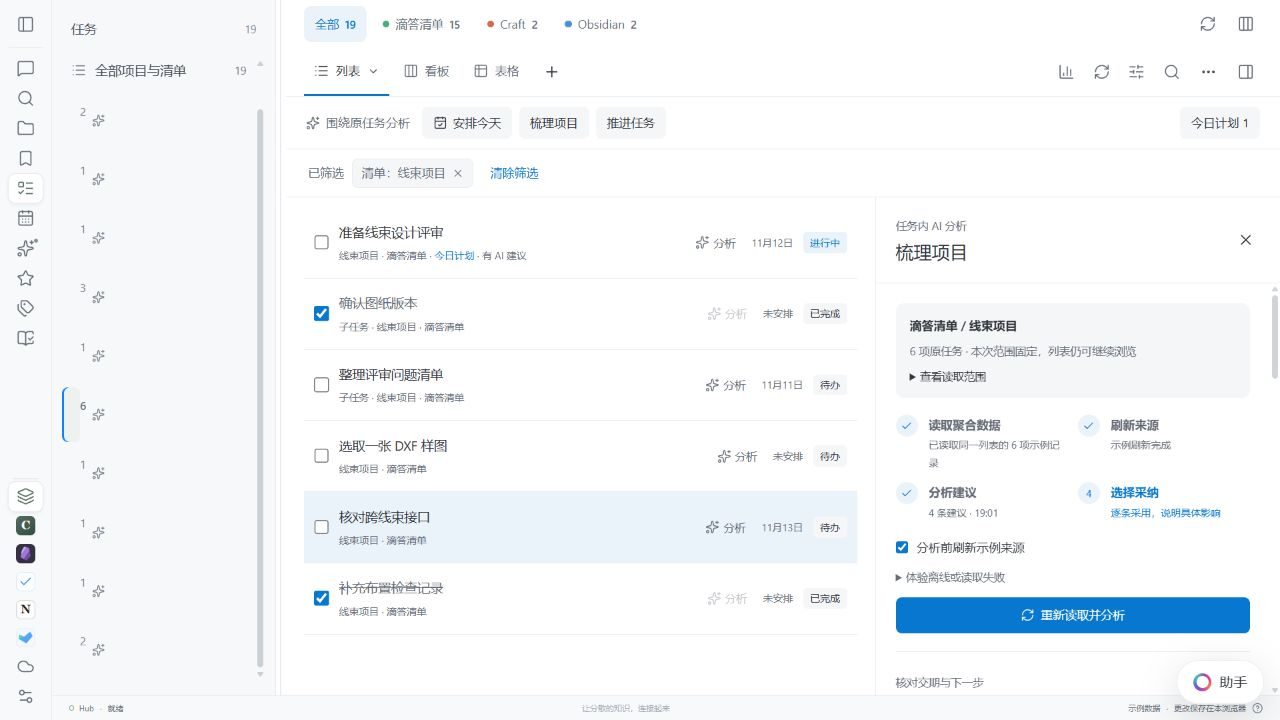
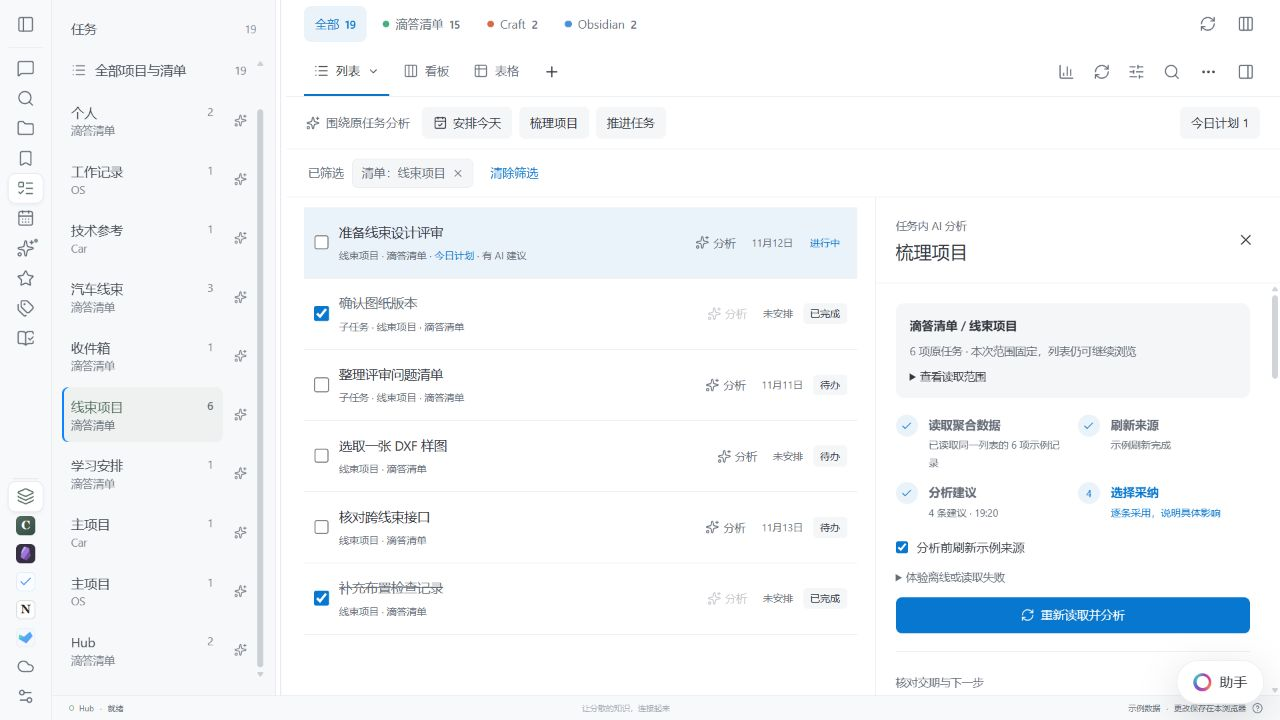
修复任务项目导航名称不可见的问题
限制分析图标按钮宽度，恢复项目名称、来源与数量的显示；同步原工作台 v94 的实际发布源码、快照与验收图。
检查结果：10 项任务分析检查通过，生产构建通过；本地 10 个项目文字和按钮均未越界，项目筛选与分析范围均为 6 条并生成 4 条建议；线上 10 个项目名称已恢复。241 个源码文件经 Git 换行规范化比对一致，差异检查通过。
仅修改站点原型，正式桌面代码与真实数据库未改动。

diff --git a/sites/hub-workspace/app/task-analysis.css b/sites/hub-workspace/app/task-analysis.css
@@ -1,4 +1,4 @@
-.ta-ai-actions{display:flex;align-items:center;gap:7px;padding:10px 20px;border-bottom:1px solid var(--line);flex-wrap:wrap;font-size:12px;flex-shrink:0}.ta-ai-actions>span{display:flex;align-items:center;gap:6px;color:var(--subtle);margin-right:5px}.ta-ai-actions>button{padding:7px 11px;border-radius:6px;background:var(--surface-2);display:flex;gap:6px;align-items:center;min-height:32px}.ta-ai-actions>button:hover{background:var(--accent-soft);color:var(--accent)}.ta-ai-actions>.ta-today-filter{margin-left:auto}.ta-ai-actions .ta-today-filter[aria-pressed=true]{background:var(--accent-soft);color:var(--accent)}.tw-task>.ta-analyze-row{display:flex;align-items:center;justify-content:center;gap:4px;flex:0 0 auto;padding:6px;color:var(--subtle);font-size:11px;border-radius:5px}.tw-task>.ta-analyze-row:hover{background:var(--surface-2);color:var(--accent)}.tw-task>.ta-analyze-row:disabled{opacity:.4;cursor:default}.ta-today-mark{font-style:normal;color:var(--accent)}.ta-project-entry{display:flex;align-items:center;gap:3px}.task-demo .ta-project-entry>button:first-child{display:flex;align-items:center;flex:1;min-width:0;text-align:left;padding:10px 9px;border-radius:6px;font-size:13px;line-height:1.45;color:inherit;background:transparent}.ta-project-entry>button:first-child span{flex:1;min-width:0}.ta-project-entry em{display:block;font-size:11px;font-style:normal;color:var(--subtle);margin-top:3px}.ta-project-entry small{font-size:11px;color:var(--subtle)}.ta-project-entry>button:first-child[aria-current=page]{background:var(--accent-soft);color:var(--accent)}.ta-project-entry .ta-project-analyze{padding:9px 5px;color:var(--subtle);border-radius:5px}.ta-project-entry button:hover{background:var(--surface-2)}.ta-project-entry .ta-project-analyze:hover{color:var(--accent)}
+.ta-ai-actions{display:flex;align-items:center;gap:7px;padding:10px 20px;border-bottom:1px solid var(--line);flex-wrap:wrap;font-size:12px;flex-shrink:0}.ta-ai-actions>span{display:flex;align-items:center;gap:6px;color:var(--subtle);margin-right:5px}.ta-ai-actions>button{padding:7px 11px;border-radius:6px;background:var(--surface-2);display:flex;gap:6px;align-items:center;min-height:32px}.ta-ai-actions>button:hover{background:var(--accent-soft);color:var(--accent)}.ta-ai-actions>.ta-today-filter{margin-left:auto}.ta-ai-actions .ta-today-filter[aria-pressed=true]{background:var(--accent-soft);color:var(--accent)}.tw-task>.ta-analyze-row{display:flex;align-items:center;justify-content:center;gap:4px;flex:0 0 auto;padding:6px;color:var(--subtle);font-size:11px;border-radius:5px}.tw-task>.ta-analyze-row:hover{background:var(--surface-2);color:var(--accent)}.tw-task>.ta-analyze-row:disabled{opacity:.4;cursor:default}.ta-today-mark{font-style:normal;color:var(--accent)}.ta-project-entry{display:flex;align-items:center;gap:3px}.task-demo .ta-project-entry>button:first-child{display:flex;align-items:center;flex:1 1 0%;width:auto;min-width:0;text-align:left;padding:10px 9px;border-radius:6px;font-size:13px;line-height:1.45;color:inherit;background:transparent}.ta-project-entry>button:first-child span{flex:1;min-width:0}.ta-project-entry em{display:block;font-size:11px;font-style:normal;color:var(--subtle);margin-top:3px}.ta-project-entry small{font-size:11px;color:var(--subtle)}.ta-project-entry>button:first-child[aria-current=page]{background:var(--accent-soft);color:var(--accent)}.task-demo .task-module-sidebar .ta-project-entry>.ta-project-analyze{flex:0 0 30px;width:30px;min-width:30px;justify-content:center;padding:9px 5px;color:var(--subtle);border-radius:5px}.ta-project-entry button:hover{background:var(--surface-2)}.ta-project-entry .ta-project-analyze:hover{color:var(--accent)}
 .tw-analysis{flex:0 0 405px;width:405px;min-width:0;border-left:1px solid var(--line);background:var(--surface);display:flex;flex-direction:column;min-height:0;color:var(--text)}.tw-analysis>header{display:flex;align-items:center;justify-content:space-between;padding:18px 20px;border-bottom:1px solid var(--line);flex-shrink:0}.tw-analysis>header small{color:var(--subtle);font-size:11px}.tw-analysis h2{font-size:18px;line-height:1.5;margin-top:3px}.tw-analysis>header button{padding:6px;border-radius:6px}.tw-analysis-content{overflow:auto;padding:20px;scrollbar-width:thin}.ta-analysis-scope{background:var(--surface-2);padding:13px 14px;border-radius:8px;font-size:12px}.ta-analysis-scope strong{font-weight:550}.ta-analysis-scope p{font-size:11px;color:var(--subtle);line-height:1.8;margin:7px 0}.ta-analysis-scope details{font-size:11px}.ta-analysis-scope ul{list-style:none;margin:12px 0 0;padding:0;max-height:180px;overflow:auto}.ta-analysis-scope li{border-top:1px solid var(--line);padding:9px 0}.ta-analysis-scope li>button{display:flex;gap:4px;align-items:center;text-align:left;font-size:12px;padding:0}.ta-analysis-scope li>small{display:block;color:var(--subtle);font-size:10px;margin-top:4px}.ta-analysis-steps{list-style:none;padding:0;margin:22px 0;display:grid;gap:13px}.ta-analysis-steps li{display:flex;gap:11px;align-items:flex-start;color:var(--subtle)}.ta-analysis-steps li>span{display:flex;align-items:center;justify-content:center;width:22px;height:22px;flex-shrink:0;background:var(--surface-2);border-radius:50%;font-size:10px;font-variant-numeric:tabular-nums}.ta-analysis-steps strong{font-size:12px;font-weight:550}.ta-analysis-steps small{display:block;font-size:11px;line-height:1.8;margin-top:2px}.ta-analysis-steps li[aria-current=step]{color:var(--accent)}.ta-analysis-steps li[aria-current=step]>span,.ta-analysis-steps li.done>span{background:var(--accent-soft);color:var(--accent)}.ta-analysis-options{font-size:12px;display:grid;gap:12px;margin-bottom:18px}.ta-analysis-options>label{display:flex;gap:8px;align-items:center}.ta-analysis-options input{accent-color:var(--accent)}.ta-analysis-options details{font-size:11px;color:var(--subtle)}.ta-analysis-options details label{display:grid;gap:7px;margin-top:10px}.ta-analysis-options select,.ta-advice-preview select{padding:8px;border:1px solid var(--line);background:var(--surface);border-radius:6px;color:var(--text);max-width:100%}.ta-analysis-primary{display:inline-flex;align-items:center;justify-content:center;gap:6px;background:var(--accent)!important;color:var(--on-accent,#fff)!important;padding:9px 12px!important;border-radius:6px;font-size:12px;min-height:34px}.ta-analysis-primary:hover{filter:brightness(.94)}.ta-analysis-primary:disabled{opacity:.5;cursor:default}.ta-analysis-error,.ta-analysis-warning{padding:12px;background:var(--surface-2);border-radius:7px;line-height:1.85;font-size:12px;margin-bottom:16px}.ta-analysis-error{color:var(--danger,#a64036)}.ta-analysis-warning{color:var(--text)}.ta-analysis-muted{font-size:11px;color:var(--subtle);line-height:1.9;margin:12px 0}.ta-advice{padding:20px 0;border-top:1px solid var(--line)}.ta-advice>small{font-size:11px;color:var(--subtle)}.ta-advice h3{font-size:14px;line-height:1.8;margin:7px 0}.ta-advice h3 button{display:flex;align-items:center;gap:5px;text-align:left;padding:0;font:inherit}.ta-advice>p{font-size:12px;line-height:1.9;margin:10px 0;color:var(--subtle)}.ta-advice-text{white-space:pre-wrap;font-size:12px;line-height:1.95;margin:12px 0}.ta-advice details{font-size:11px;line-height:1.9;color:var(--subtle);margin:14px 0}.ta-advice summary,.tw-analysis summary{cursor:pointer}.ta-evidence{padding:10px;background:var(--surface-2);border-radius:7px;margin-top:9px;white-space:pre-wrap}.ta-evidence strong{font-weight:550;color:var(--text)}.ta-advice .ta-advice-effect{font-size:11px;color:var(--text);margin-top:18px}.ta-advice-actions{display:flex;align-items:center;gap:8px;flex-wrap:wrap;font-size:12px}.ta-advice-actions>button:not(.ta-analysis-primary){padding:7px;color:var(--subtle)}.ta-advice-actions>p{font-size:11px;line-height:1.9}.ta-advice .ta-advice-success{display:flex;gap:6px;align-items:center;color:var(--accent);font-size:12px}.ta-advice-preview{padding:13px;background:var(--surface-2);border-radius:8px;font-size:12px;line-height:1.8}.ta-advice-preview label{display:grid;gap:6px;margin-top:12px;font-size:11px;color:var(--subtle)}.ta-advice-preview textarea{width:100%;min-height:95px;resize:vertical;background:var(--surface);border:1px solid var(--line);border-radius:6px;padding:9px;color:var(--text);font-size:12px;line-height:1.85}.ta-advice-preview p{font-size:11px;color:var(--subtle);margin:12px 0}.ta-advice-preview .ta-advice-actions{margin-top:12px}.ta-analysis-receipts{margin-top:20px;font-size:11px;color:var(--subtle);line-height:1.9}.ta-analysis-receipts p{padding:10px 0;border-bottom:1px solid var(--line)}.ta-analysis-boundary{font-size:10px;color:var(--subtle);line-height:1.9;padding-top:20px;margin-top:20px;border-top:1px solid var(--line)}.ta-analysis-boundary svg{margin-right:4px;vertical-align:middle}.ta-analysis-return{display:flex;gap:5px;align-items:center;font-size:12px;color:var(--subtle);padding:12px 0}.ta-detail-ai-note{padding:12px;background:var(--surface-2);border-radius:8px;margin:18px 0}.ta-detail-ai-note p{white-space:pre-wrap}.tw-analysis button:focus-visible,.tw-analysis summary:focus-visible,.ta-project-analyze:focus-visible,.ta-analyze-row:focus-visible{outline:2px solid var(--accent);outline-offset:3px}.tw-analysis textarea,.tw-analysis select{caret-color:var(--accent)}
 @media(max-width:1100px){.tw-analysis{flex-basis:370px;width:370px}.ta-ai-actions>span{display:none}.tw-task>.ta-analyze-row span{display:none}}
 @media(max-width:760px){.tw-analysis{display:none;width:100%;flex:1;border-left:0}.tw-mobile-detail .tw-analysis{display:flex}.tw-mobile-detail:has(.tw-analysis) .tw-canvas{display:none}.tw-analysis-content{padding:17px}.ta-ai-actions{padding:8px 10px;gap:5px}.ta-ai-actions>button{font-size:11px;padding:7px 8px}.ta-ai-actions>.ta-today-filter{margin-left:0}.tw-analysis select,.tw-analysis textarea{font-size:16px}.tw-task>.ta-analyze-row{flex-basis:auto}}

diff --git a/sites/hub-workspace/docs/task-analysis-workspace.md b/sites/hub-workspace/docs/task-analysis-workspace.md
@@ -25,3 +25,13 @@
 - 浏览器主线：原任务发起→读取分析→差异预览→模拟修改→返回同一任务查看；项目直接发起且左侧和右侧范围均为 6 条；项目建议保留；今日采纳→原列表标记→今日筛选只出现原条目；旧缓存保护（修改选项不绕过保护）；未知先核对。保存失败→同操作重新预览→模拟保存成功；刷新后 19 条原任务与 1 条计划标记仍在；Escape 关闭分析后回到原 6 条项目任务。编辑途中曾出现新增 CSS 尚未写入时的热更新导入错误，文件补齐后页面和生产构建通过。浏览器验收为本地默认 1280×720，没有重复进行缩放/分辨率测试。预览图见 `docs/task-analysis-workspace.jpg`。
 
 用户仍需体验这套单面板交互后，再决定正式桌面实现范围。
+
+
+## 项目导航显示修复（2026-11-14）
+
+用户截图指出左侧项目名称不可见。新增的分析图标按钮继承了侧栏按钮的整行宽度，导致项目文字被挤为 0 像素；上轮浏览器检查未发现此视觉问题。现将图标按钮限定为 30 像素且不收缩，项目主按钮使用剩余宽度。
+
+- 本地浏览器实际测量：10 个项目文字宽度均为 127 像素，分析按钮均为 30 像素，没有越出行边界；截图确认项目名称、来源、数量可见。
+- 点击“线束项目”后列表保留对应 6 条原任务，项目分析范围也是“滴答清单 / 线束项目，6 项原任务”；分析完成后生成 4 条建议，关闭后返回同一列表。
+- `node --test scripts/task-analysis-check.mjs`：10 项通过。未运行无关桌面/Rust 测试，正式桌面代码与真实数据库未改动。
+- 本次生产构建通过；保留既有的分块大小及动态路由分类提示。
